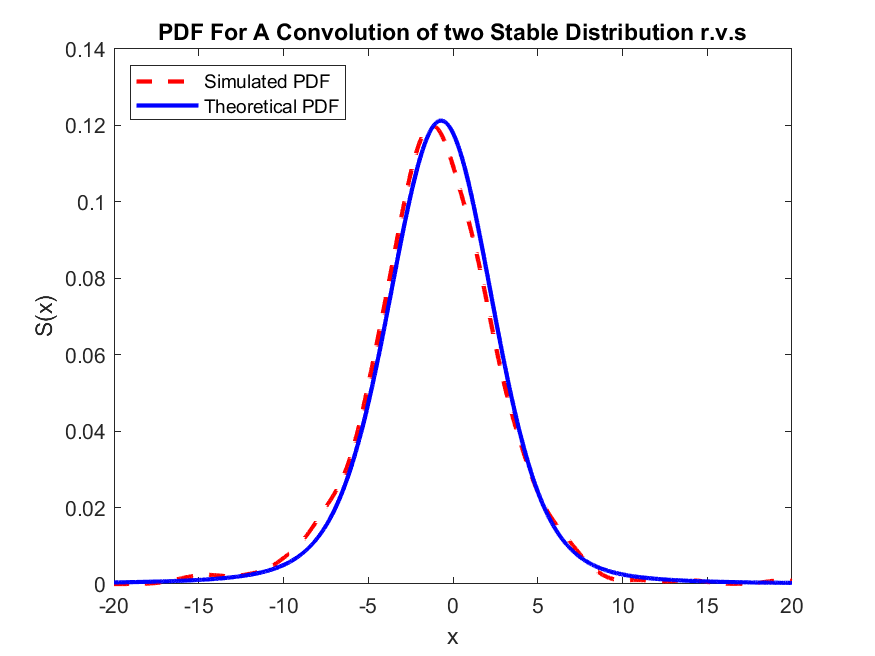
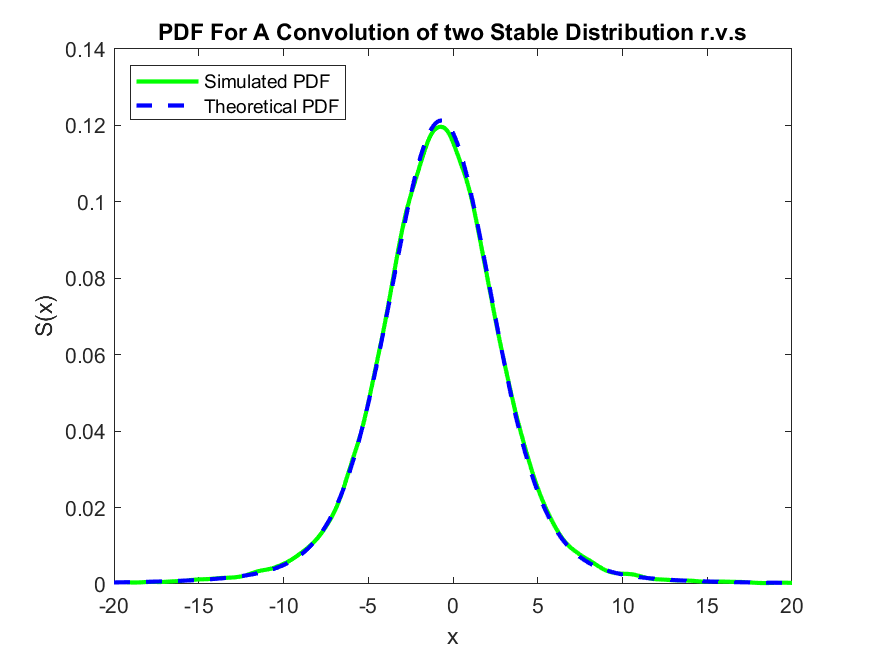
add files for conv ex3

diff --git a/assignment1.m b/assignment1.m
@@ -11,13 +11,13 @@ n = 40000; xvec = -20:.001:20;
 % and plot the resulting density
 randstab = stabgen(n, a, b, c, d, 2);
 [f,x] = ksdensity(randstab, xvec);
-figure, plot(x, f, 'r--', 'linewidth', 3)
+figure, plot(x, f, 'g-', 'linewidth', 3)
 xlim([-20 20])
 
 %%% true density %%%
 % calculate the actual theoretical values of a S_{a,b} distribution
 theostab = asymstabplus(xvec, a, b, c, d);
-hold on, plot(xvec, theostab, 'b-', 'linewidth', 3), hold off
+hold on, plot(xvec, theostab, 'b--', 'linewidth', 3), hold off
 
 %pdfmatlab = makedist("Stable","alpha",a,"beta",b,"gam",c,"delta",d);
 %theostab1 = pdf(pdfmatlab, xvec);
@@ -40,22 +40,22 @@ n = 40000; xvec = -20:.001:20;
 b_conv = (b1 * c1^a + b2 * c2^a)/(c1^a + c2^a); c_conv = (c1^a + c2^a)^(1/a); d_conv = d1 + d2;
 
 %%% kernel density estimate %%%
-% generate a random sample of size n from the S_{a,b}(d, c) distribution
+% generate a random sample of size n from the S_{a, b}(d, c) distribution
 % and plot the resulting density
 randstab_conv = stabgen(n, a, b_conv, c_conv, d_conv, 2);
 [f_conv,x_conv] = ksdensity(randstab_conv, xvec);
-figure, plot(x_conv, f_conv, 'r--', 'linewidth', 3)
+figure, plot(x_conv, f_conv, 'g-', 'linewidth', 3)
 xlim([-20 20])
 [f_conv,x_conv] = ksdensity(randstab_conv,xvec);
-plot(x_conv, f_conv, 'r--', 'linewidth', 2)
+plot(x_conv, f_conv, 'g-', 'linewidth', 2)
 
 %%% true density %%%
-% calculate the actual theoretical values of a S_{a,b} distribution
+% calculate the actual theoretical values of a S_{a, b}(c, d) distribution
 theostab_conv = asymstabplus(xvec, a, b_conv, c_conv, d_conv);
-hold on, plot(xvec, theostab_conv, 'b-', 'linewidth', 2), hold off
+hold on, plot(xvec, theostab_conv, 'b--', 'linewidth', 2), hold off
 
 theostab = asymstabplus(xvec, a, b_conv, c_conv, d_conv);
-hold on, plot(xvec, theostab, 'b-', 'linewidth', 2), hold off
+hold on, plot(xvec, theostab, 'b--', 'linewidth', 2), hold off
 
 % prettyfy the plot
 legend('Simulated PDF', ...

diff --git a/asymstab_generalized.m b/asymstab_generalized.m
@@ -1,0 +1,23 @@
+function [f,F] = asymstab_generalized(xvec, a, b, c, d)
+    bordertol=1e-8; lo=bordertol; hi=1-bordertol; tol=1e-6;
+    xl=length(xvec); F=zeros(xl,1); f=F;
+    if nargin>3
+        dogen=1;
+        for loop=1:length(xvec)
+            x=xvec(loop); % dopdf=1;
+            f(loop) = quadl(@fff_generalized, lo, hi, tol, [], x, a, b, c, d, 1, dogen)/pi;
+            if nargout>1
+                F(loop) = 0.5 - (1/pi)*quadl(@fff_generalized, lo, hi, tol, [], x, a, b, c, d, 0, dogen);
+            end
+        end
+    else
+        dogen=0;
+        for loop=1:length(xvec)
+            x=xvec(loop); % dopdf=1;
+            f(loop)= quadl(@fff_generalized,lo,hi,tol,[],x,a,b,1,0,1,dogen) / pi;
+            if nargout>1
+                F(loop)=0.5-(1/pi)* quadl(@fff_generalized,lo,hi,tol,[],x,a,b,1,0,0,dogen);
+            end
+        end
+    end
+end

diff --git a/fff_generalized.m b/fff_generalized.m
@@ -1,0 +1,27 @@
+function I=fff_generalized(uvec,x,a,b, c, d, dopdf, dogen)
+    I = zeros(length(uvec), 1);
+    for ii=1:length(uvec)
+        u=uvec(ii);  t  = (1-u)/u;
+        if dogen
+            if a==1
+                cf = exp(-c*abs(t)*(1 + 1i*b*(2/pi)*sign(t) * log(t)) + 1i*d*t);
+            else
+                cf = exp(-(c^a)*((abs(t))^a)*(1 - 1i*b*sign(t) * tan(pi*a/2))  + 1i*d*t);
+            end
+        else
+            c=1; d=0;
+            if a==1
+                cf = exp( -abs(t)*( 1 + 1i*b*(2/pi)*sign(t) * log(t) ) ); 
+            else
+                cf = exp( - ((abs(t))^a) *( 1 - 1i*b*sign(t) * tan(pi*a/2) ) );
+            end
+        end
+        z = exp(-1i*t*x) .* cf;
+        if dopdf
+            g=real(z);
+        else
+            g=imag(z)./t;
+        end
+        I(ii) = g / u^2;
+    end
+end

diff --git a/conv_test.m b/conv_test.m
@@ -1,0 +1,24 @@
+%% convolution example
+alpha1 = 1.6;
+alpha2 = 1.8;
+beta = 0;
+c = 1;
+d = 0;
+
+% size of intervals to calculate the density using conv function
+dx = 0.01;
+% x to evaluate
+x = -10:dx:10;
+
+% calculate range for the convolution
+%xconv = linspace(2*x(1), 2*x(end), 2*length(x)-1);
+
+% generate pdf's of each Stable
+s1 = asymstab_generalized(x, alpha1, beta, c, d);
+s2 = asymstab_generalized(x, alpha2, beta, c, d);
+
+% calculate the convolution
+sconv = conv(s1, s2, 'same')*dx;
+
+% plot
+plot(x', sconv, 'b', 'LineWidth', 2)
